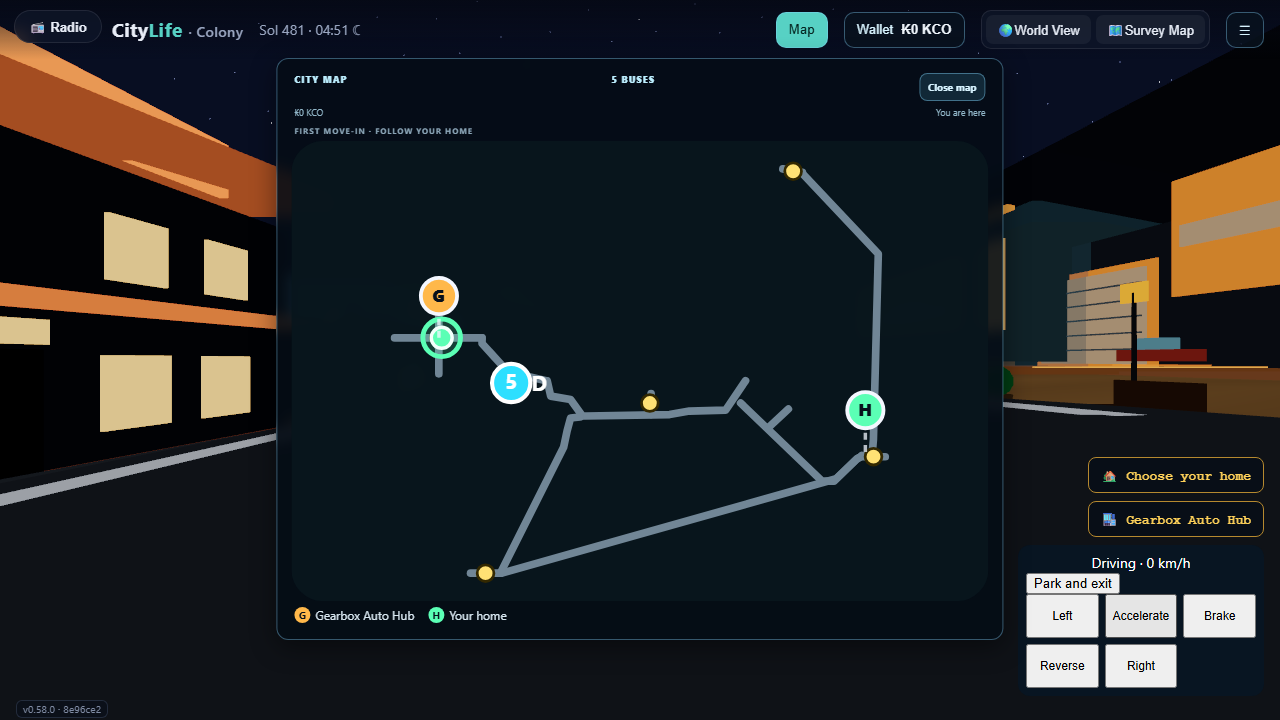
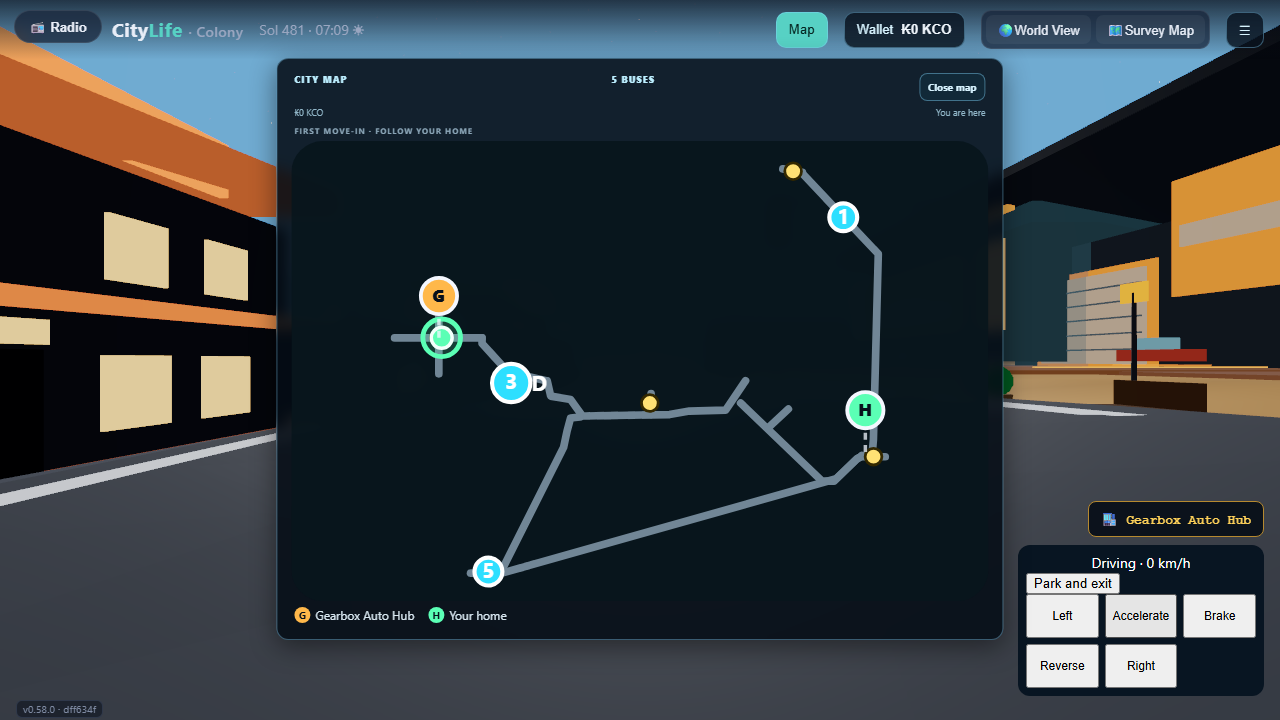
test(citylife): assert coherent showroom affordability through wallet refresh

diff --git a/e2e/player-onboarding-journey.spec.ts b/e2e/player-onboarding-journey.spec.ts
@@ -68,10 +68,15 @@ test("first move-in starts at Gearbox and free-roam destinations wait for server
     await expect(page.getByTestId("showroom-card-name")).toContainText("X19");
   };
   await selectX19();
-  await expect(page.getByTestId("showroom-affordability")).toHaveText("Need ₭200 more");
-  await expect(acquire).toHaveText("Insufficient funds");
-  await expect(acquire).toHaveAttribute("data-acquire-state","insufficient_funds");
-  await expect(acquire).toBeDisabled();
+  // Read label and button in one browser task: wallet refreshes can re-render between
+  // separate locator assertions, but both must converge to one coherent insufficient state.
+  await expect.poll(()=>page.evaluate(()=>{
+    const label=document.querySelector('[data-testid="showroom-affordability"]');
+    const button=document.querySelector('[data-testid="showroom-acquire"]') as HTMLButtonElement|null;
+    return {affordability:label?.textContent?.trim(),button:button?.textContent?.trim(),
+      state:button?.dataset.acquireState,disabled:button?.disabled};
+  }),{timeout:30000}).toEqual({affordability:"Need ₭200 more",button:"Insufficient funds",
+    state:"insufficient_funds",disabled:true});
   expect(vehicleRequests).toHaveLength(0);expect(car).toBe(false);expect(balance).toBe(750);
   await page.screenshot({path:info.outputPath("insufficient-funds.png")});
   await page.locator('[data-build-action="showroom-exit"]').press("Enter");
